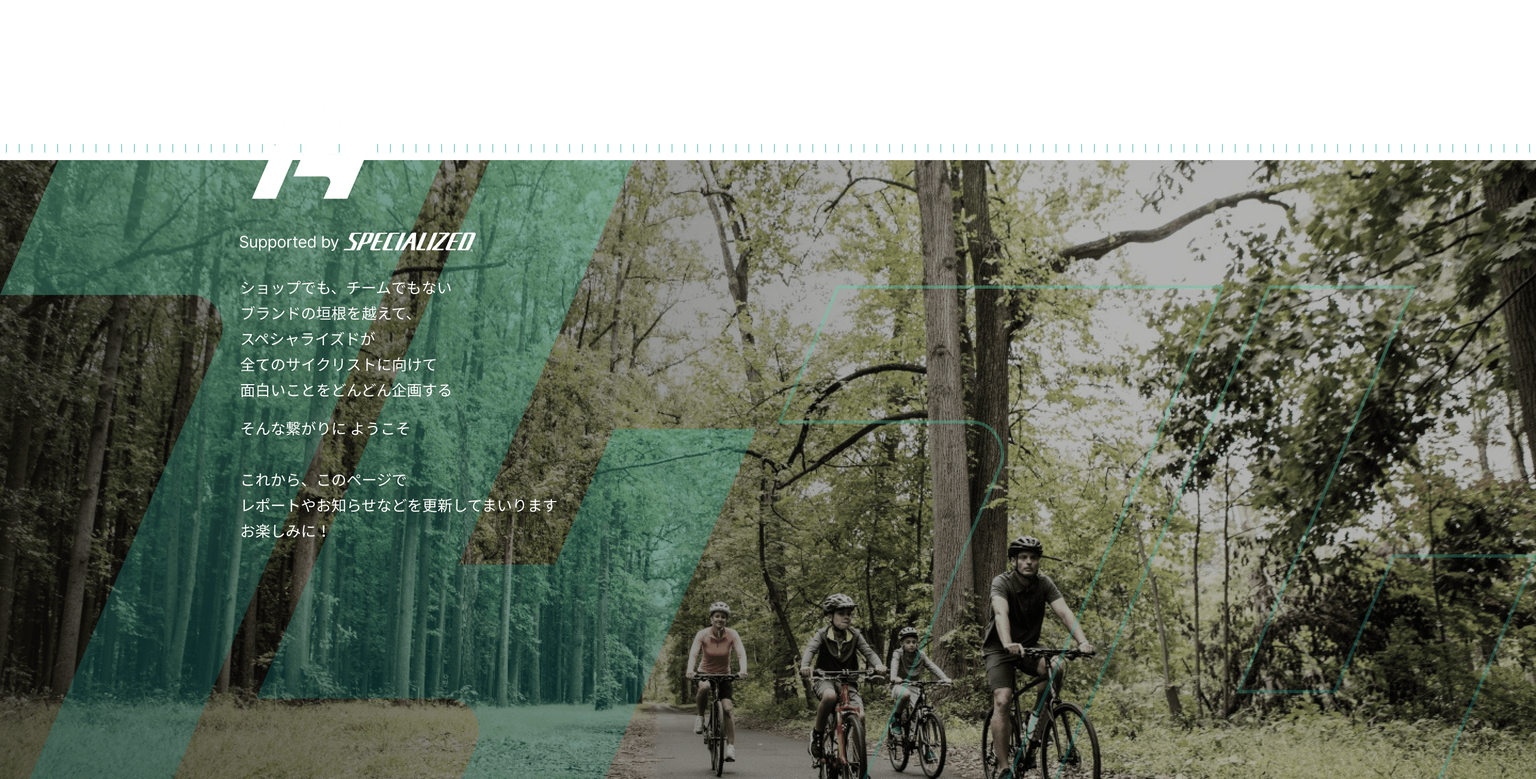
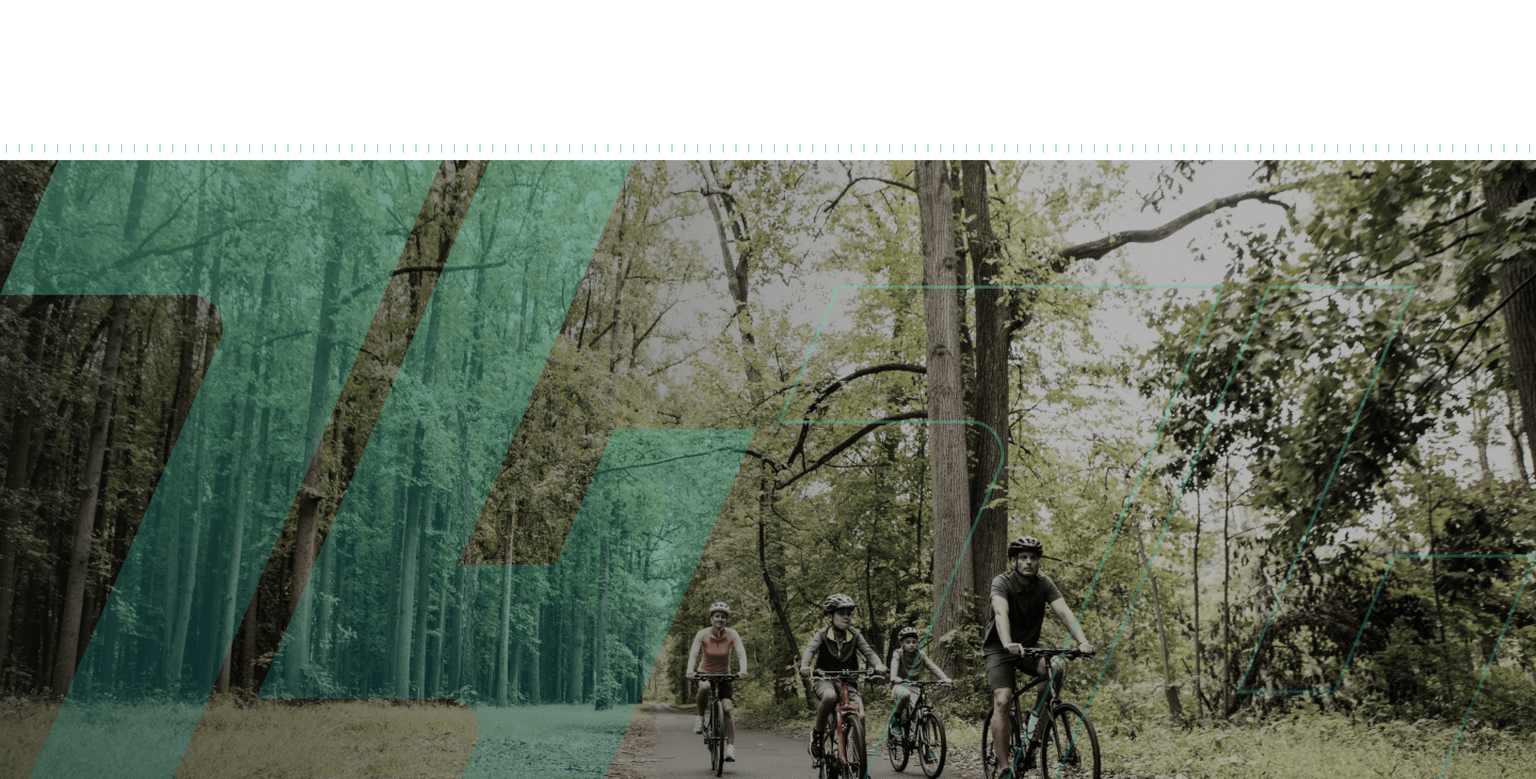
Add article link

diff --git a/index.css b/index.css
@@ -4,43 +4,70 @@ body {
   background-color: #121212;
 }
 
-body > header .header-mobile {
-  width: 100%;
+body > header {
+  min-height: 638px;
+  background-size: cover;
+  background-position: center;
+  background-image: url("./image/header-mobile.png");
+}
+
+@media screen and (min-width: 552px) {
+  body > header {
+    min-height: 638px;
+    background-image: url("./image/header-tablet.png");
+  }
+}
+
+@media screen and (min-width: 1024px) {
+  body > header {
+    min-height: 730px;
+    background-image: url("./image/header-desktop.png");
+  }
+}
+
+body > header .header-title {
+  padding: 64px 24px;
+  max-width: 960px;
+  margin: auto;
+}
+
+body > header .header-title .header-title-logo {
   display: block;
+  width: 225px;
 }
 
-@media screen and (min-width: 768px) {
-  body > header .header-mobile {
-    display: none;
-  }
+body > header .header-title > p {
+  display: block;
+  font-weight: 300;
+  font-size: 15px;
+  line-height: 160%;
+  letter-spacing: -0.006em;
+  color: #fff;
+  margin-top: 24px;
 }
 
-body > header .header-tablet {
-  width: 100%;
-  display: none;
-}
-
-@media screen and (min-width: 768px) {
-  body > header .header-tablet {
-    display: block;
-  }
-}
-
-@media screen and (min-width: 1024px) {
-  body > header .header-tablet {
-    display: none;
-  }
-}
-
-body > header .header-desktop {
-  width: 100%;
-  display: none;
-}
-
-@media screen and (min-width: 1024px) {
-  body > header .header-desktop {
-    display: block;
-  }
+body > header .header-title .header-title-link {
+  display: block;
+  width: 264px;
+  height: 54px;
+  display: -webkit-box;
+  display: -ms-flexbox;
+  display: flex;
+  -webkit-box-align: center;
+      -ms-flex-align: center;
+          align-items: center;
+  -webkit-box-pack: center;
+      -ms-flex-pack: center;
+          justify-content: center;
+  background: rgba(0, 0, 0, 0.35);
+  border: 3px solid #fff;
+  font-weight: 600;
+  font-size: 17px;
+  line-height: 120%;
+  letter-spacing: -0.012em;
+  color: rgba(255, 255, 255, 0.86);
+  text-decoration: none;
+  margin-top: 24px;
 }
 
 body .sns {

diff --git a/index.html b/index.html
@@ -20,9 +20,23 @@
   </head>
   <body>
     <header>
-      <img src="image/header-mobile.png" class="header-mobile" />
-      <img src="image/header-tablet.png" class="header-tablet" />
-      <img src="image/header-desktop.png" class="header-desktop" />  
+      <div class="header-title">
+        <h1><img src="./image/title.png" class="header-title-logo" /></h1>
+        <p>
+          ショップでも、チームでもない<br />
+          ブランドの垣根を越えて、<br />
+          スペシャライズドが<br />
+          全てのサイクリストに向けて<br />
+          面白いことをどんどん企画する<br />
+          <br />
+          そんな繋がりに ようこそ<br />
+          <br />
+          これから、このページで<br />
+          レポートやお知らせなどを更新してまいります<br />
+          お楽しみに！<br />
+        </p>
+        <a href="./about.html" class="header-title-link">はじめての方へ 74とは？</a>  
+      </div>
     </header>
     <section class="sns">
       <h2 class="sns-title"><img src="image/title-sns.png" /></h2>
